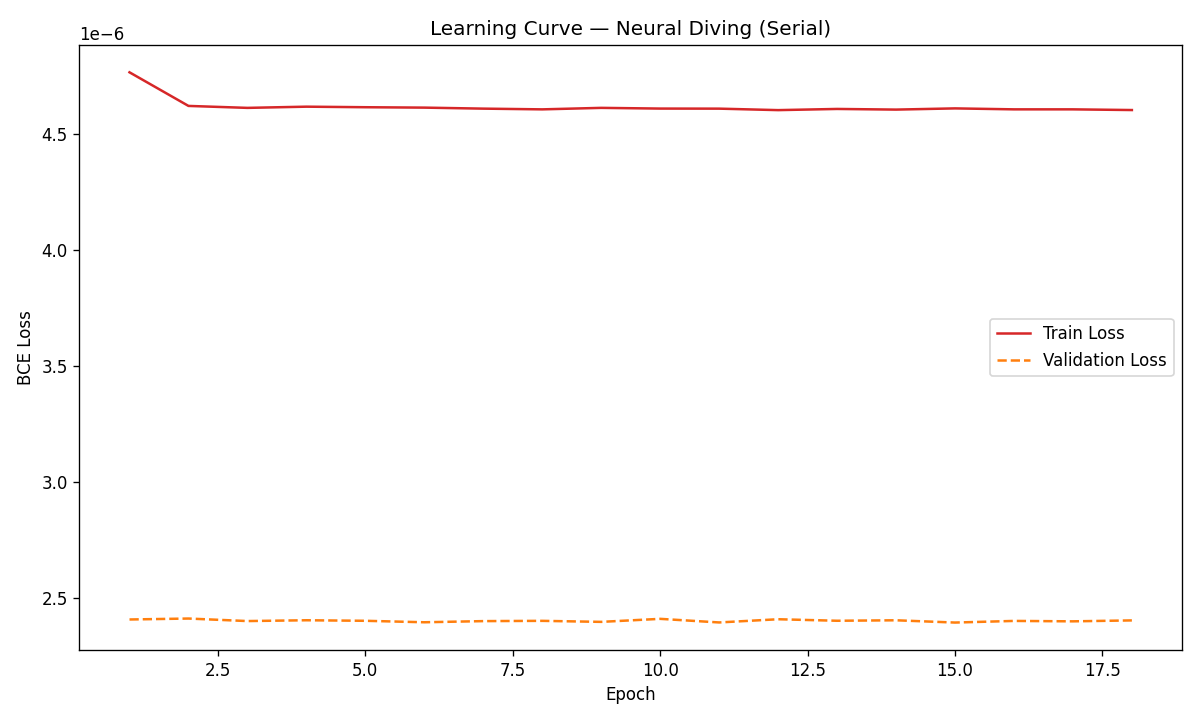
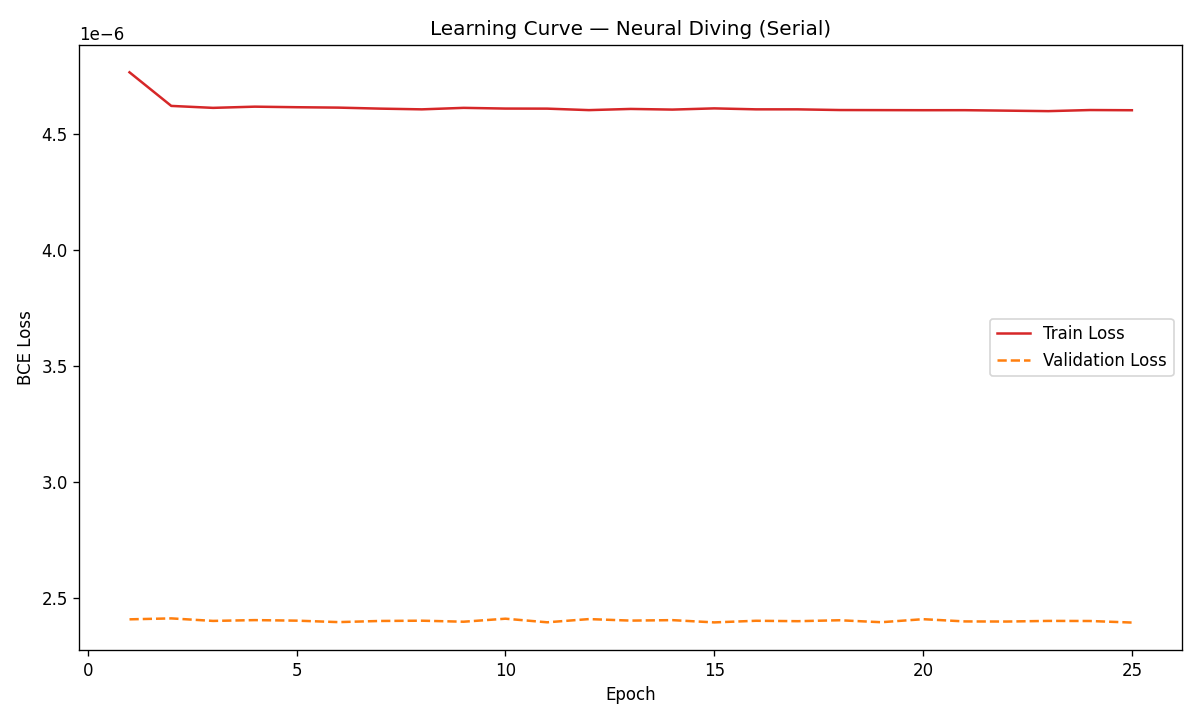
update files

diff --git a/src/gnn/train_neural_diving_parallel_v4.py b/src/gnn/train_neural_diving_parallel_v4.py
@@ -89,7 +89,7 @@ project_root = os.path.dirname(os.path.dirname(os.path.dirname(current_file_path
 sys.path.insert(0, project_root)
 
 from src.gnn.models.gasse import GasseGNN                        # noqa: E402
-from src.graph_transform.milp_dataset import NeuralDivingDataset  # noqa: E402
+from src.graph_transform.milp_dataset_v2 import NeuralDivingDataset  # noqa: E402
 
 
 # ---------------------------------------------------------------------------
